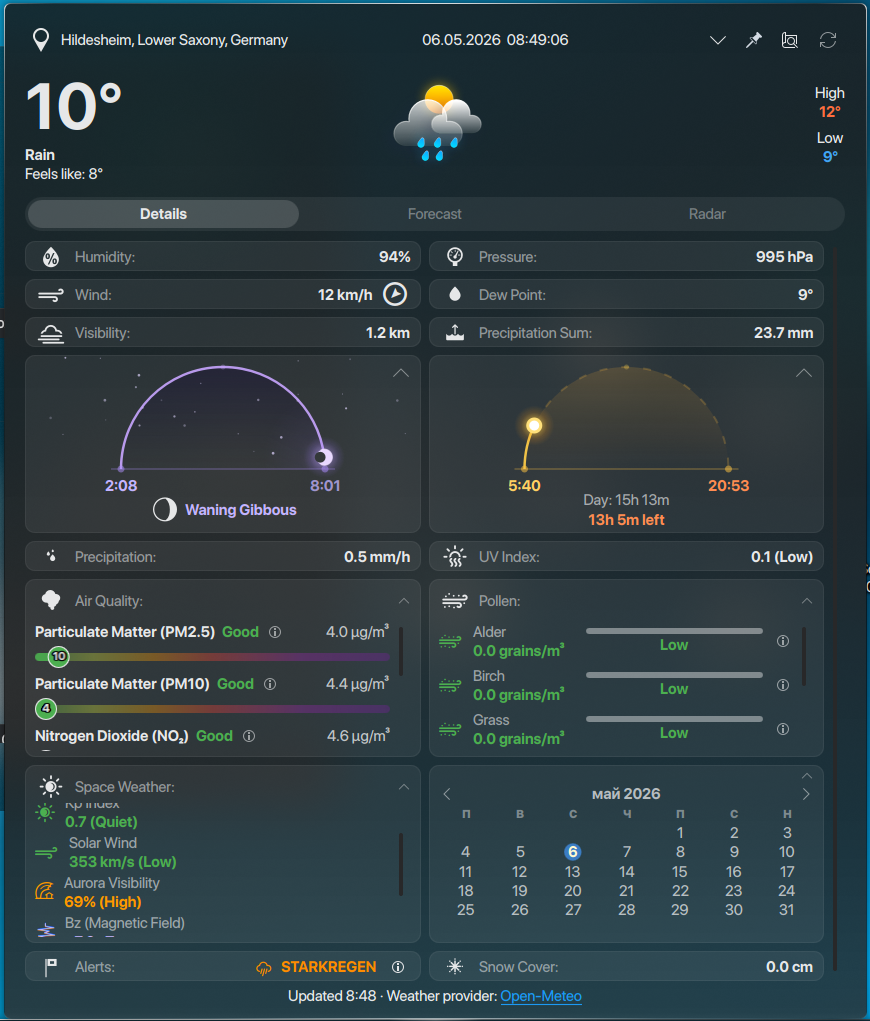
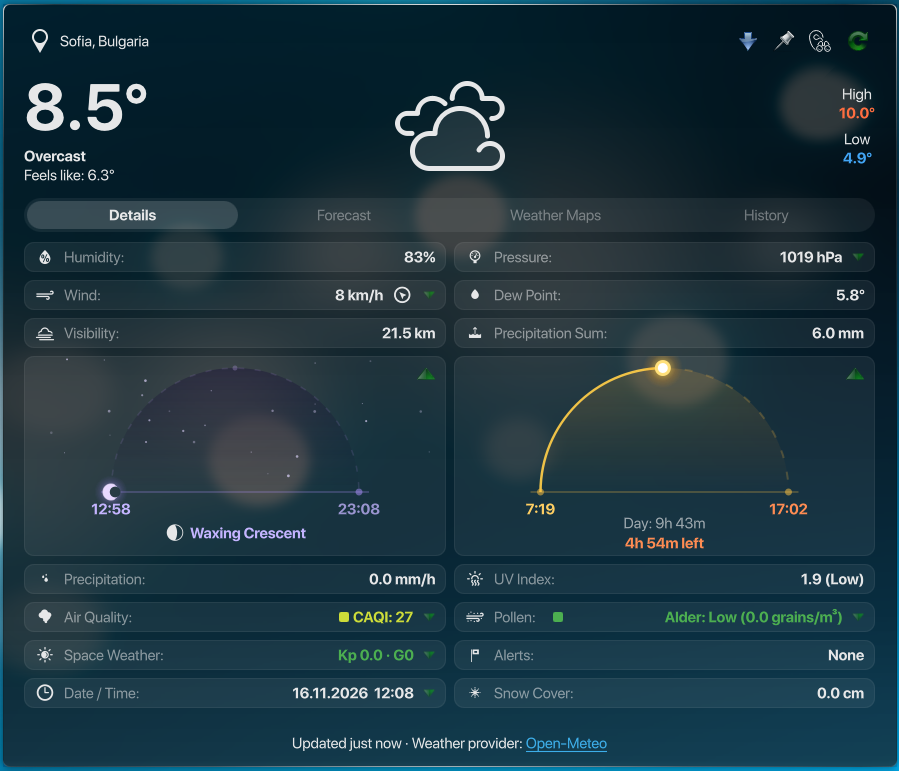
fix: align Simple graph conditions and date formatting

diff --git a/contents/ui/SimpleView.qml b/contents/ui/SimpleView.qml
@@ -726,15 +726,15 @@ ColumnLayout {
                     .replace(/[\s.\/\-,]*y+/, "");                  // year in the middle
                 return f.trim() !== "" ? f : fmt;
             }
-            /** The axis labels follow Appearance > Misc > Date format as it is set (a preset or a
-             *  custom pattern). Only the two "Region default" choices, which have no pattern of
-             *  their own, are shown as day and month. */
+            /** The axis labels follow Settings > Misc > Date and Time exactly as the rest of the Simple
+             *  view does (the day squares use the same call), whatever the choice is, "Region default"
+             *  included. Only when that gives nothing is the region's day and month shown. */
             function _date(ds, entry) {
                 if (!weatherRoot || !ds)
                     return "--";
-                var fmt = weatherRoot.dateFormatSetting;
-                if (fmt !== "locale-long" && fmt !== "locale-short" && fmt)
-                    return weatherRoot.formatIsoDate(ds, true);
+                var t = weatherRoot.formatIsoDate(ds, true);
+                if (t)
+                    return t;
                 var p = ds.substring(0, 10).split("-");
                 if (p.length !== 3)
                     return "--";
@@ -749,7 +749,9 @@ ColumnLayout {
                     var parts = ds.split("-");
                     name = parts.length === 3 ? Qt.locale().dayName(new Date(parts[0], parts[1] - 1, parts[2]).getDay(), Locale.LongFormat) : "";
                 }
-                return name + ", " + weatherRoot.formatIsoDate(ds, true);
+                // the weather condition follows the date
+                var cond = entry && entry.code !== undefined && entry.code !== null ? weatherRoot.weatherCodeToText(entry.code) : "";
+                return name + ", " + weatherRoot.formatIsoDate(ds, true) + (cond ? " · " + cond : "");
             }
         }
 
